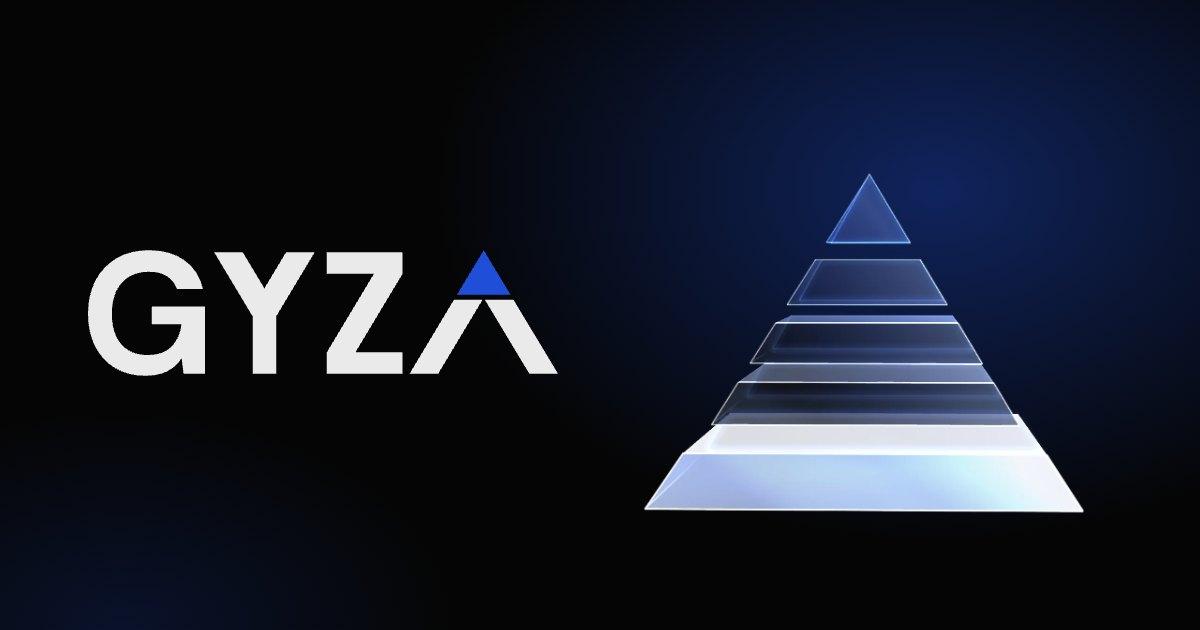
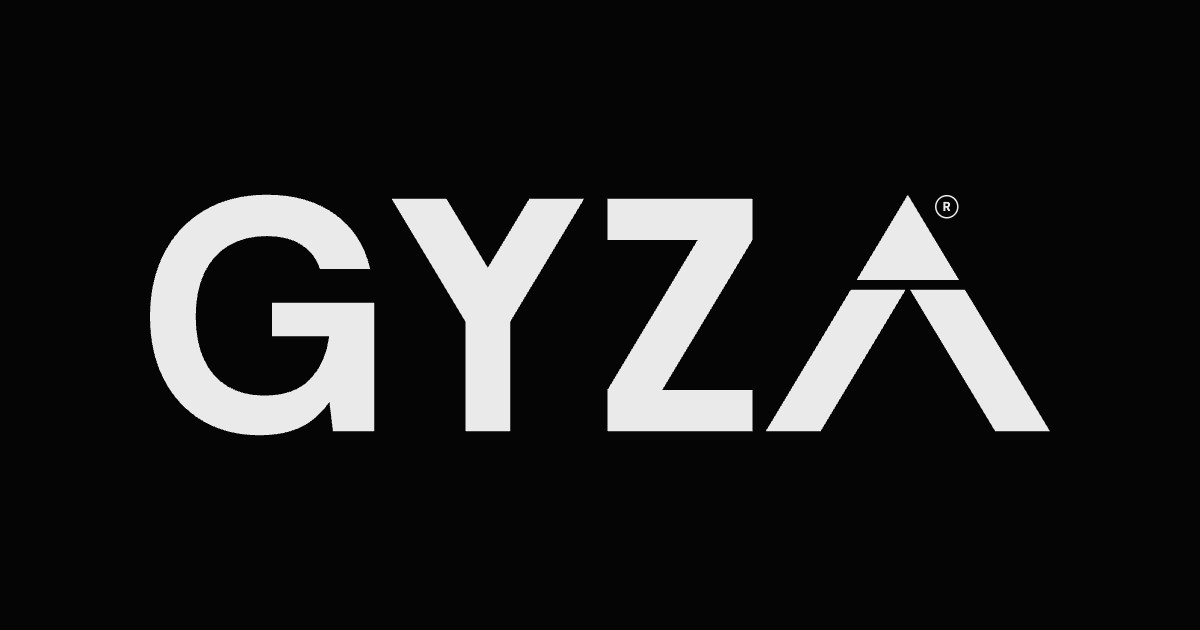
Previa de link: imagem com o GYZA do rodape (com R) em fundo preto e sem subtitulo na home

diff --git a/index.html b/index.html
@@ -4,22 +4,19 @@
 <meta charset="utf-8">
 <meta name="viewport" content="width=device-width, initial-scale=1, viewport-fit=cover">
 <title>GYZA | Agência de marketing</title>
-<meta name="description" content="Agência de marketing 360° em Balneário Camboriú: marca, identidade visual, site, conteúdo e anúncios. Peça a análise gratuita da sua empresa.">
 <link rel="canonical" href="https://gyza.com.br/">
 <meta property="og:type" content="website">
 <meta property="og:locale" content="pt_BR">
 <meta property="og:site_name" content="GYZA">
 <meta property="og:url" content="https://gyza.com.br/">
 <meta property="og:title" content="GYZA | Agência de marketing">
-<meta property="og:description" content="Marca, identidade visual, site, conteúdo e anúncios trabalhando juntos. Peça a análise gratuita da sua empresa.">
-<meta property="og:image" content="https://gyza.com.br/assets/img/og-gyza.jpg">
+<meta property="og:image" content="https://gyza.com.br/assets/img/og-gyza.jpg?v=2">
 <meta property="og:image:width" content="1200">
 <meta property="og:image:height" content="630">
-<meta property="og:image:alt" content="Pirâmide de vidro azul com o logo GYZA sobre fundo preto">
-<meta name="twitter:image" content="https://gyza.com.br/assets/img/og-gyza.jpg">
+<meta property="og:image:alt" content="Logo GYZA em branco sobre fundo preto">
+<meta name="twitter:image" content="https://gyza.com.br/assets/img/og-gyza.jpg?v=2">
 <meta name="twitter:card" content="summary_large_image">
 <meta name="twitter:title" content="GYZA | Agência de marketing">
-<meta name="twitter:description" content="Marca, identidade visual, site, conteúdo e anúncios trabalhando juntos. Peça a análise gratuita da sua empresa.">
 <meta name="theme-color" content="#050505">
 <link rel="icon" href="assets/img/favicon.svg" type="image/svg+xml">
 <link rel="preload" href="assets/fonts/DMSans-VF-latin.woff" as="font" type="font/woff" crossorigin>
@@ -38,7 +35,7 @@
   "description": "Agência de marketing 360° com foco em performance digital: branding, identidade visual, site, conteúdo e anúncios.",
   "url": "https://gyza.com.br/",
   "logo": "https://gyza.com.br/assets/img/logo-gyza-512.png",
-  "image": "https://gyza.com.br/assets/img/og-gyza.jpg",
+  "image": "https://gyza.com.br/assets/img/og-gyza.jpg?v=2",
   "telephone": "+55-47-99260-6871",
   "email": "agenciagyza@gmail.com",
   "address": {
